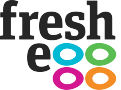
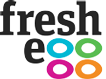
fixed other brand images and alignment of lists fixed

diff --git a/css/index.css b/css/index.css
@@ -195,7 +195,7 @@ nav ul li a:hover {
     margin-bottom: 50px;
 }
 
-.otwm .shot-1, .otwm .shot-2 {
+.otwm .shots {
     max-width: 960px;
     margin-left: auto;
     margin-right: auto;
@@ -213,8 +213,7 @@ nav ul li a:hover {
     margin-top: 40px;
 }
 
-.otwm .shot-1 .old-logo img, .otwm .shot-2 .other-brands img {
-    height: 70%;
+.otwm .shot-1 .old-logo img {
     width: 70%;
     position: relative;
     left: 50%;
@@ -241,8 +240,14 @@ nav ul li a:hover {
 }
 
 .otwm .shot-2 .other-brands img {
-    height: 10%;
-    width: auto;
+    max-height: 10vw;
+    position: relative;
+    left: 50%;
+    -webkit-transform: translateX(-50%);
+    -moz-transform: translateX(-50%);
+    -ms-transform: translateX(-50%);
+    -o-transform: translateX(-50%);
+    transform: translateX(-50%);
 }
 
 .otwm .shot-2 .other-brands ul li:before {
@@ -252,7 +257,7 @@ nav ul li a:hover {
 }
 
 .otwm .shot-2 .other-brands ul {
-    margin-top: 50px;
+    margin-top: 30px;
 }
 
 .otwm .shot-2 .other-brands ul li {
